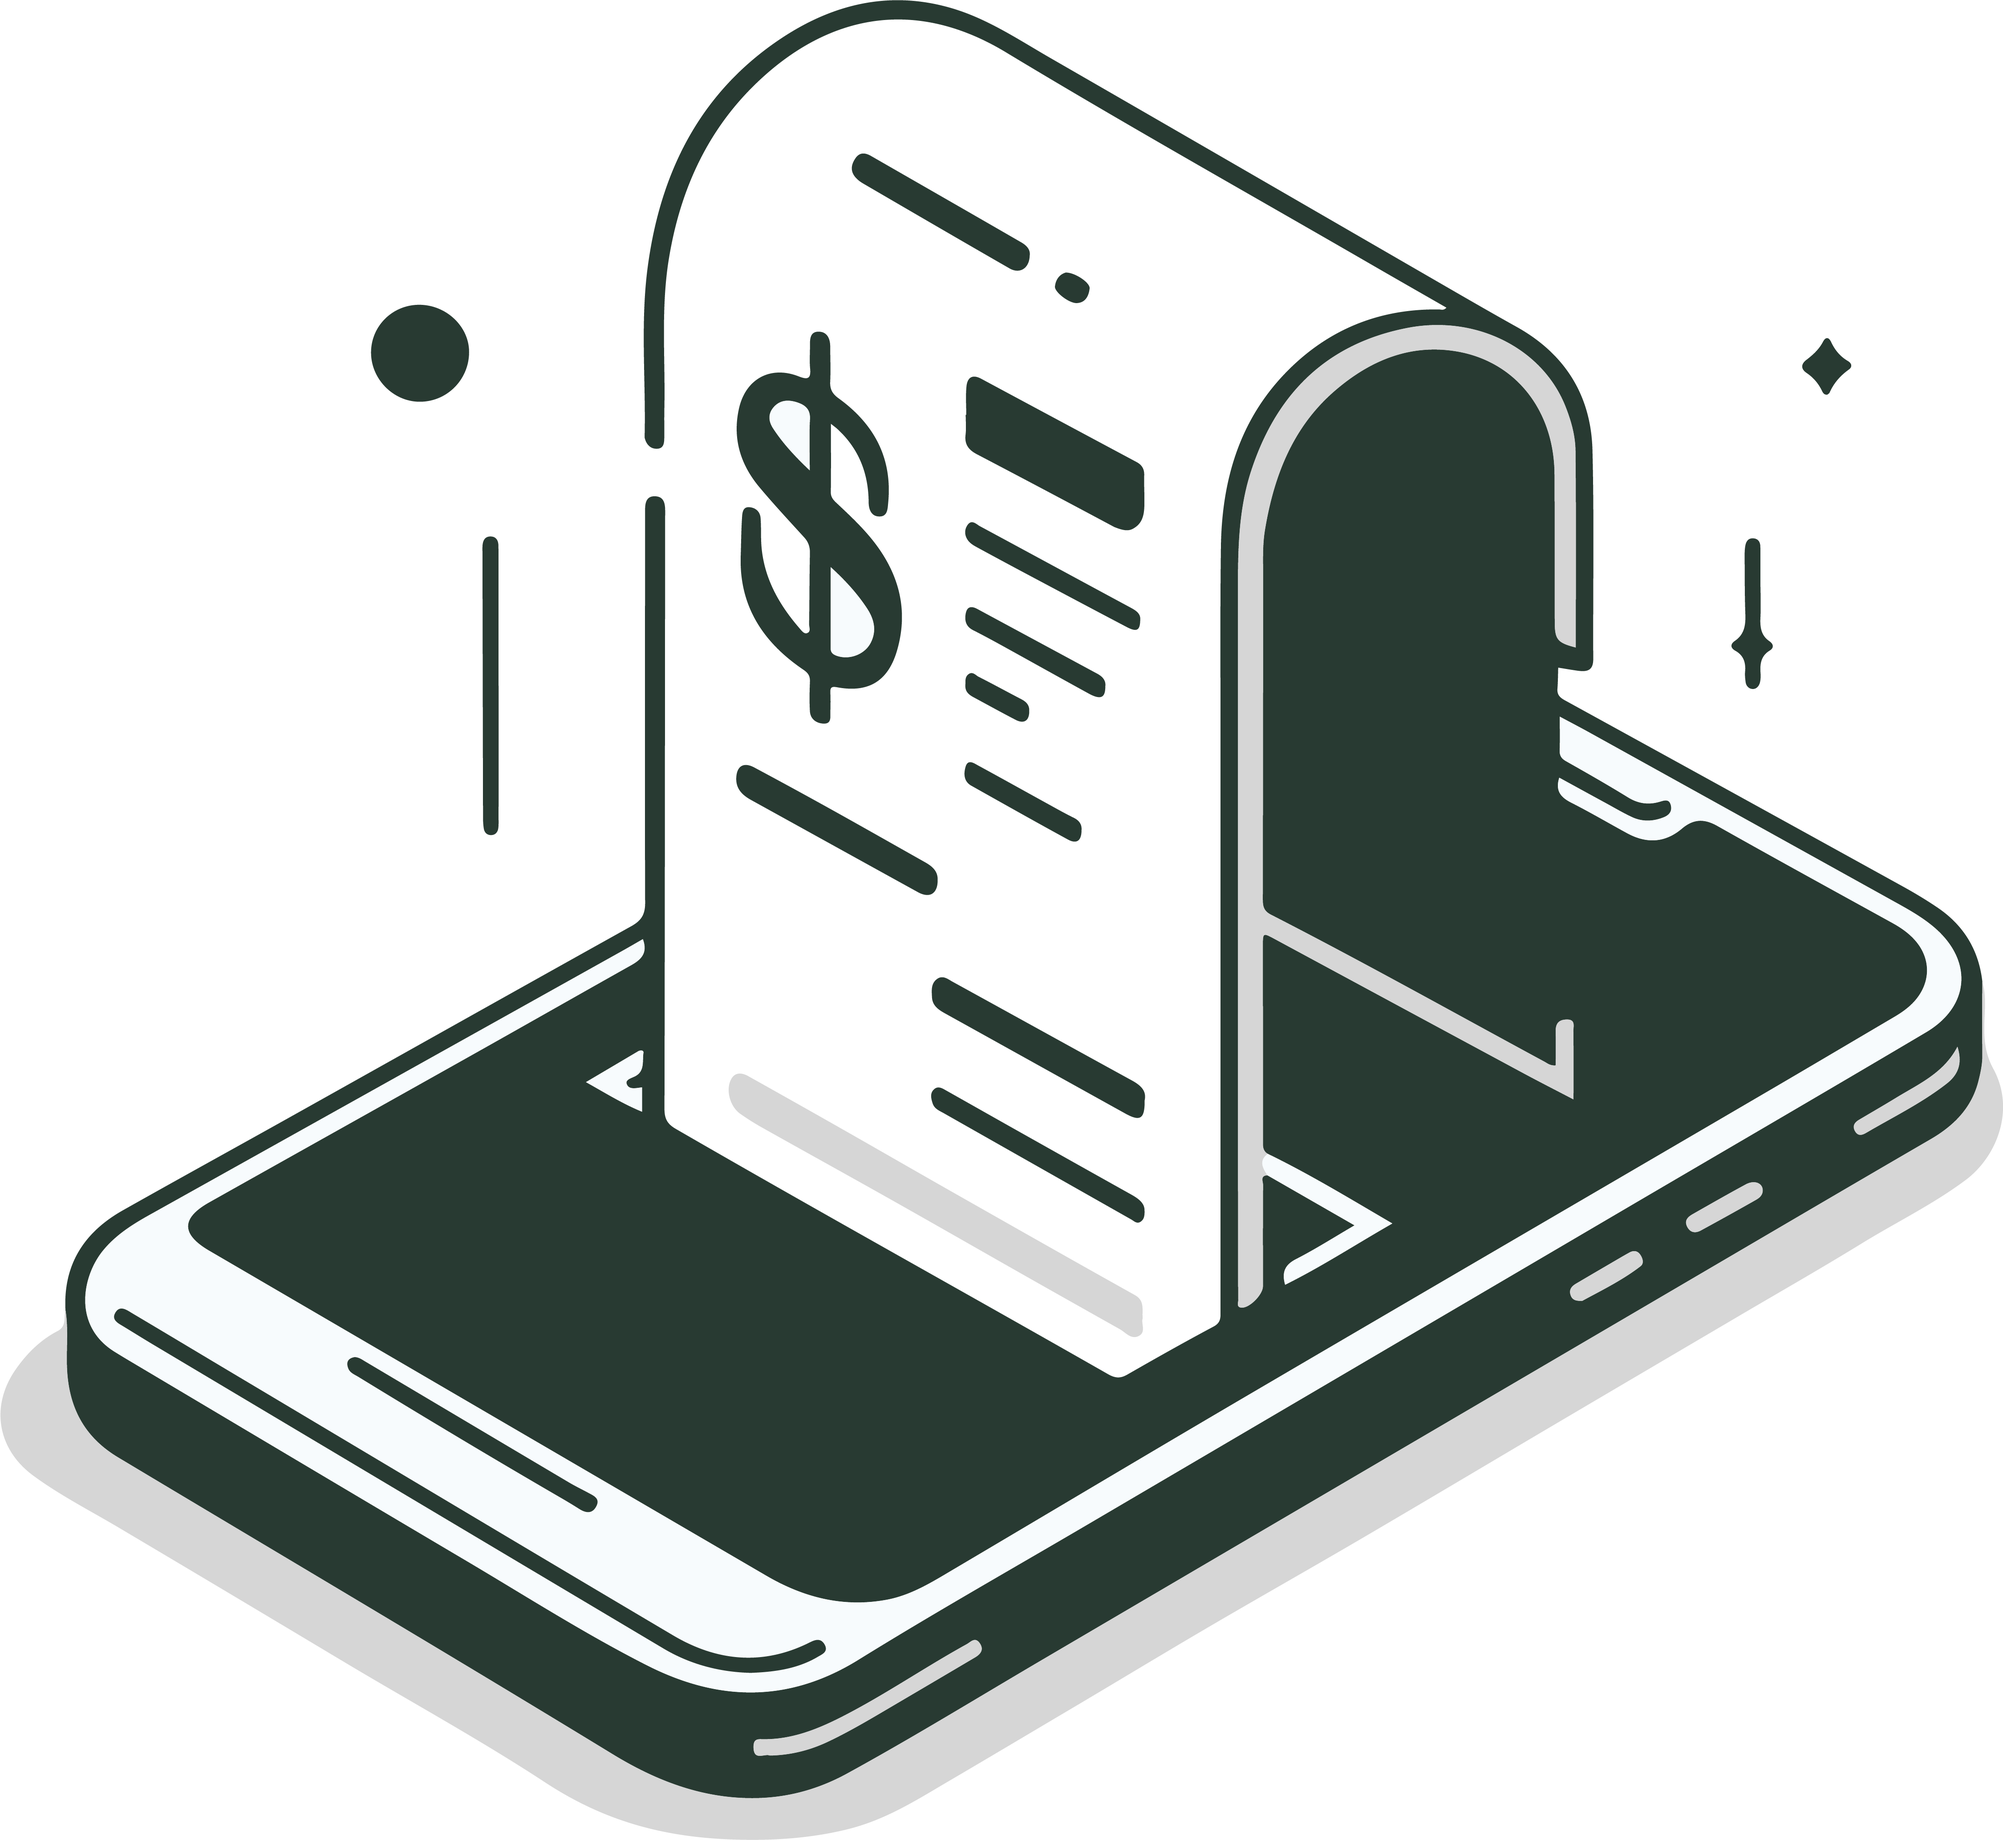
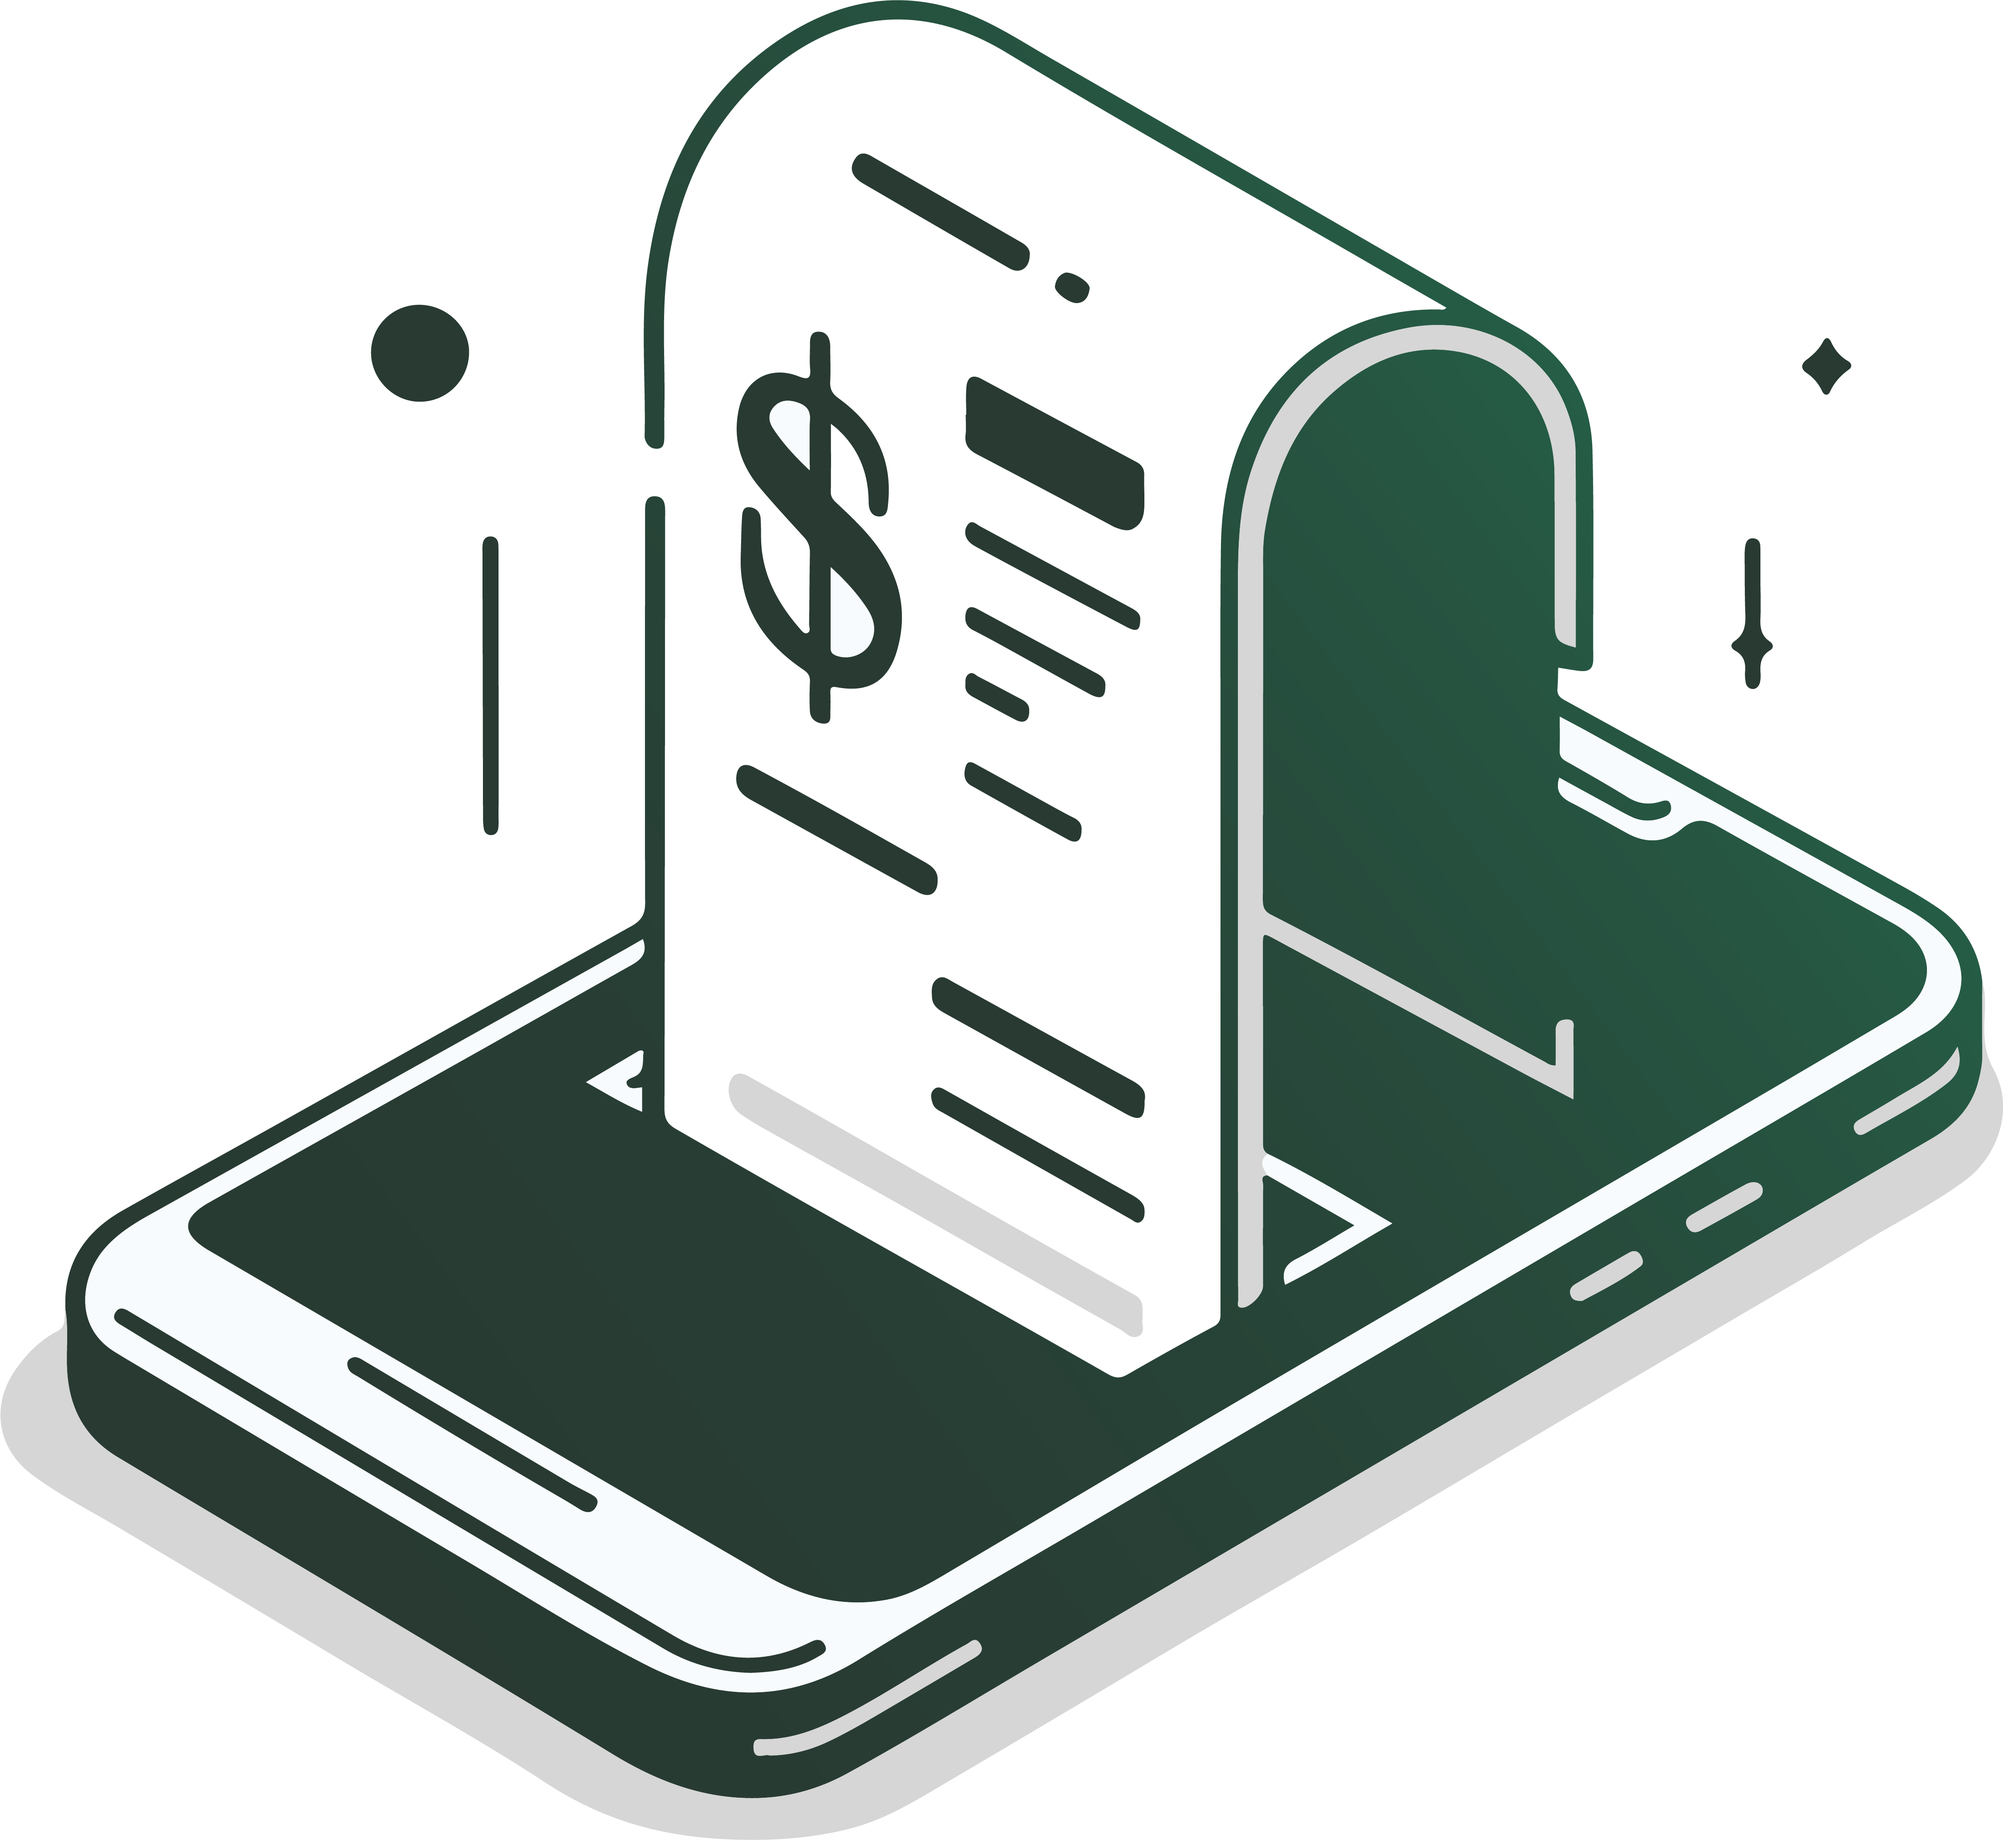
feat: transfer info

Changed region(s): [[0.56, 0.0624, 0.9956, 0.6553], [0.4667, 0.0, 0.56, 0.0624]]

diff --git a/pages/bagi.vue b/pages/bagi.vue
@@ -17,10 +17,14 @@
         />
       </div>
 
-      <div v-for="(member, iMember) in members" :key="iMember" class="flex flex-col gap-4 bg-[#cedcd3] p-4 rounded-lg">
+      <div
+        v-for="(member, iMember) in members"
+        :key="iMember"
+        class="flex flex-col gap-4 bg-gradient-to-r from-[#283a32] to-[#237A57] rounded-lg text-white p-4"
+      >
         <div class="flex justify-between items-center">
           <div class="flex gap-2 items-center">
-            <UserIcon class="w-6 text-dark-green" />
+            <UserIcon class="w-6" />
             <input
               placeholder="Nama"
               v-model="member.name"
@@ -58,10 +62,10 @@
         <UserPlusIcon class="w-4" /> Tambah member
       </button>
 
-      <div class="flex flex-col gap-4">
+      <div class="flex flex-col gap-4 mb-4">
         <div class="flex gap-4 justify-between items-center">
           <label for="delivery">
-            <p class="font-bold">Ongkir</p>
+            <p class="font-bold text-lg">Ongkir</p>
             <p class="text-sm leading-4">Biaya pengiriman, Biaya ongkir, delivery</p>
           </label>
           <FormInput
@@ -69,12 +73,12 @@
             type="number"
             placeholder="Ongkir"
             v-model="order.delivery"
-            class="font-bold text-right w-24"
+            class="font-bold text-right w-24 border-gray-500"
           />
         </div>
         <div class="flex gap-4 justify-between items-center">
           <label for="service">
-            <p class="font-bold">Biaya aplikasi</p>
+            <p class="font-bold text-lg">Biaya aplikasi</p>
             <p class="text-sm leading-4">Biaya lainnya, service</p>
           </label>
           <FormInput
@@ -82,12 +86,12 @@
             type="number"
             placeholder="Biaya aplikasi"
             v-model="order.service"
-            class="font-bold text-right w-24"
+            class="font-bold text-right w-24 border-gray-500"
           />
         </div>
         <div class="flex gap-4 justify-between items-center">
           <label for="discount">
-            <p class="font-bold">Diskon</p>
+            <p class="font-bold text-lg">Diskon</p>
             <p class="text-sm leading-4">Biaya Potongan, Promo</p>
           </label>
           <FormInput
@@ -95,12 +99,51 @@
             type="number"
             placeholder="Diskon"
             v-model="order.discount"
-            class="font-bold text-right w-24"
+            class="font-bold text-right w-24 border-gray-500"
           />
         </div>
       </div>
 
-      <NuxtLink class="btn-primary" to="/hitung">Hitung</NuxtLink>
+      <div class="p-4 bg-[#cedcd3] rounded-lg">
+        <div class="mb-4">
+          <h2 class="font-bold text-lg">Tujuan Bayar</h2>
+          <p class="text-sm">Kasih tau temen kamu bayarnya kemana</p>
+        </div>
+
+        <div class="mb-2" v-if="transferInfo.info.length">
+          <h3>
+            Bayar ke
+            <input
+              placeholder="Nama kamu"
+              class="bg-transparent text-lg pt-1 underline underline-offset-4 decoration-1 outline-none"
+              v-model="transferInfo.name"
+            />
+          </h3>
+        </div>
+
+        <div class="flex flex-col gap-2">
+          <div v-for="(info, iInfo) in transferInfo.info" :key="iInfo" class="flex gap-2 mb-2">
+            <FormInput
+              placeholder="Tujuan (Gopay, Bank)..."
+              class="text-sm w-full border-gray-500 placeholder:text-neutral-500"
+              v-model="info.name"
+            />
+            <FormInput
+              placeholder="No. HP, Rekening..."
+              class="text-sm w-full border-gray-500 placeholder:text-neutral-500"
+              v-model="info.number"
+            />
+            <MinusCircleIcon class="w-10" @click="removeTransferInfo(iInfo)" />
+          </div>
+
+          <button class="w-full flex justify-center items-center gap-1 text-sm" @click="addTransferInfo()">
+            <PlusIcon class="w-4" />
+            <p>Tambah tujuan</p>
+          </button>
+        </div>
+      </div>
+
+      <button class="btn-primary" @click="calculate">Hitung</button>
     </div>
   </div>
 </template>
@@ -117,8 +160,11 @@ import {
 import draggable from "vuedraggable";
 import { v4 as uuidv4 } from "uuid";
 
+const router = useRouter();
+
 const order = useOrder();
 const members = useMembers();
+const transferInfo = useTransferInfo();
 
 const dragOptions = {
   animation: 200,
@@ -126,6 +172,10 @@ const dragOptions = {
   disabled: false,
   ghostClass: "ghost",
 };
+
+onMounted(() => {
+  retrieveTransferInfo();
+});
 
 const addMember = () => {
   members.value.push({ name: "", menus: [] });
@@ -138,5 +188,28 @@ const addMenu = (iMember) => {
 };
 const removeMenu = (iMember, index) => {
   members.value[iMember].menus = members.value[iMember].menus.filter((_, iMenu) => iMenu !== index);
+};
+const addTransferInfo = () => {
+  transferInfo.value.info.push({ name: "", number: "" });
+};
+const removeTransferInfo = (index) => {
+  transferInfo.value.info = transferInfo.value.info.filter((_, iInfo) => iInfo !== index);
+};
+const saveMembers = () => {
+  const savedMembersCookie = useCookie("saved_members");
+  savedMembersCookie.value = JSON.stringify(members.value.map((member) => member.name));
+};
+const saveTransferInfo = () => {
+  const savedTransferInfoCookie = useCookie("saved_transfer_info");
+  savedTransferInfoCookie.value = JSON.stringify(transferInfo.value);
+};
+const retrieveTransferInfo = () => {
+  const savedTransferInfoCookie = useCookie("saved_transfer_info");
+  transferInfo.value = savedTransferInfoCookie.value;
+};
+const calculate = () => {
+  saveMembers();
+  saveTransferInfo();
+  router.push("/hitung");
 };
 </script>

diff --git a/pages/hitung.vue b/pages/hitung.vue
@@ -31,6 +31,18 @@
         </table>
       </div>
 
+      <div v-if="transferInfo.name && transferInfo.info.length > 0" class="flex flex-col items-center">
+        <p>
+          Bayar ke <b>{{ transferInfo.name }}</b
+          >:
+        </p>
+
+        <div v-for="(info, iInfo) in transferInfo.info" :key="iInfo" class="flex flex-col items-center mb-4">
+          <h3 class="text-xl font-bold">{{ info.number }}</h3>
+          <p>{{ info.name }}</p>
+        </div>
+      </div>
+
       <div class="flex flex-col text-sm">
         <b>Detail Transaksi</b>
         <hr class="my-2 border-gray-500" />
@@ -128,6 +140,7 @@ const rupiah = new Intl.NumberFormat("id-ID", {
 
 const order = useOrder();
 const members = useMembers();
+const transferInfo = useTransferInfo();
 
 const memberCount = members.value.length;
 const calculatedMembers = [
@@ -164,11 +177,5 @@ const printInvoice = async () => {
   link.setAttribute("download", `${calculatedOrder.restaurant} - ${moment().format("DD-MM-YYYY_kk-mm")}.png`);
   link.setAttribute("href", printCanvas.toDataURL("image/png").replace("image/png", "image/octet-stream"));
   link.click();
-
-  saveMembers();
-};
-const saveMembers = () => {
-  const savedMembersCookie = useCookie("saved_members");
-  savedMembersCookie.value = JSON.stringify(calculatedMembers.map((member) => member.name));
 };
 </script>

diff --git a/pages/index.vue b/pages/index.vue
@@ -45,16 +45,6 @@
       </label>
       <NuxtLink class="text-center font-semibold" to="/bagi">Isi Sendiri</NuxtLink>
     </div>
-
-    <!-- <div class="mt-4">
-      <p>Format bon yang didukung</p>
-      <div class="flex justify-center">
-        <img
-          class="h-6"
-          src="https://upload.wikimedia.org/wikipedia/commons/thumb/1/18/Gojek_logo_2022.svg/2560px-Gojek_logo_2022.svg.png"
-        />
-      </div>
-    </div> -->
   </div>
 </template>
 

diff --git a/components/FormInput.vue b/components/FormInput.vue
@@ -6,7 +6,7 @@
     :value="props.modelValue"
     @input="$emit('update:modelValue', $event.target.value)"
     :class="
-      `bg-[#e8efeb] rounded-md border-gray-500 border-[1px] px-2 py-2 placeholder:font-normal focus:outline outline-offset-2 outline-green-900 ` +
+      `bg-transparent rounded-md border-[1px] px-2 py-2 placeholder:font-normal focus:outline outline-offset-2 outline-green-900 ` +
       props.class
     "
   />

diff --git a/assets/css/main.css b/assets/css/main.css
@@ -15,7 +15,7 @@ body {
 
 @layer components {
   .btn-primary {
-    @apply flex justify-center items-center mt-4 py-3 rounded-xl bg-[#283a32] active:bg-[#283a32]/[.9] text-white text-lg;
+    @apply flex justify-center items-center mt-4 py-3 rounded-xl bg-gradient-to-r from-[#283a32] to-[#237A57] active:bg-[#283a32]/[.9] text-white text-lg;
   }
 
   .btn-secondary {

diff --git a/composables/states.ts b/composables/states.ts
@@ -18,3 +18,8 @@ export const useMembers = () =>
       ],
     },
   ]);
+export const useTransferInfo = () =>
+  useState("transferInfo", () => ({
+    name: "",
+    info: [],
+  }));
